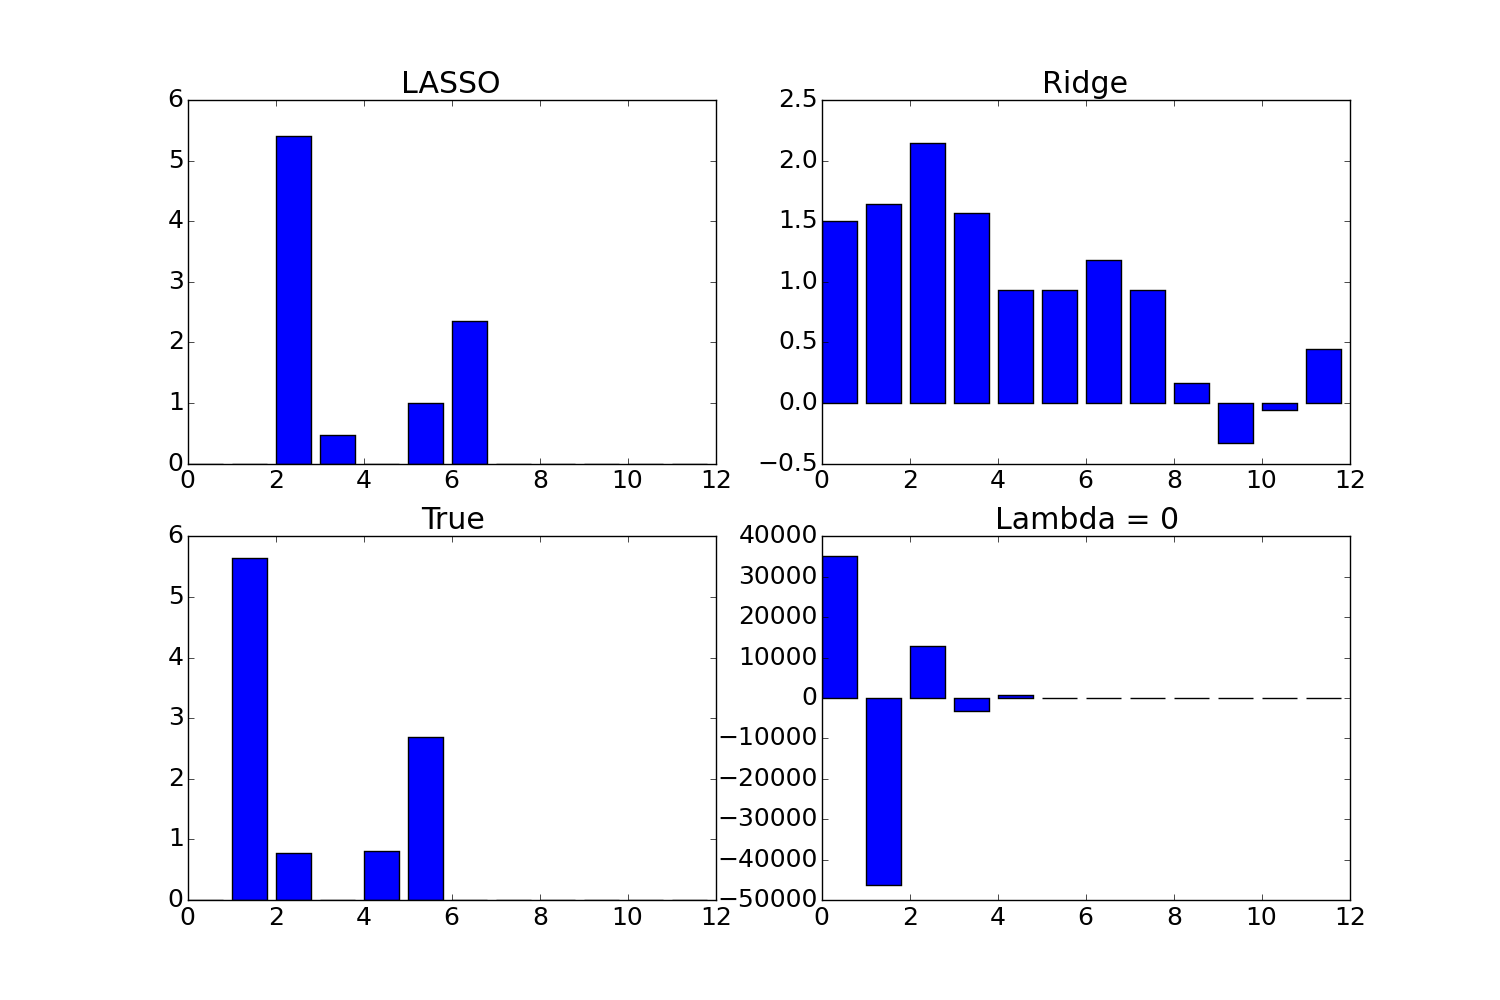
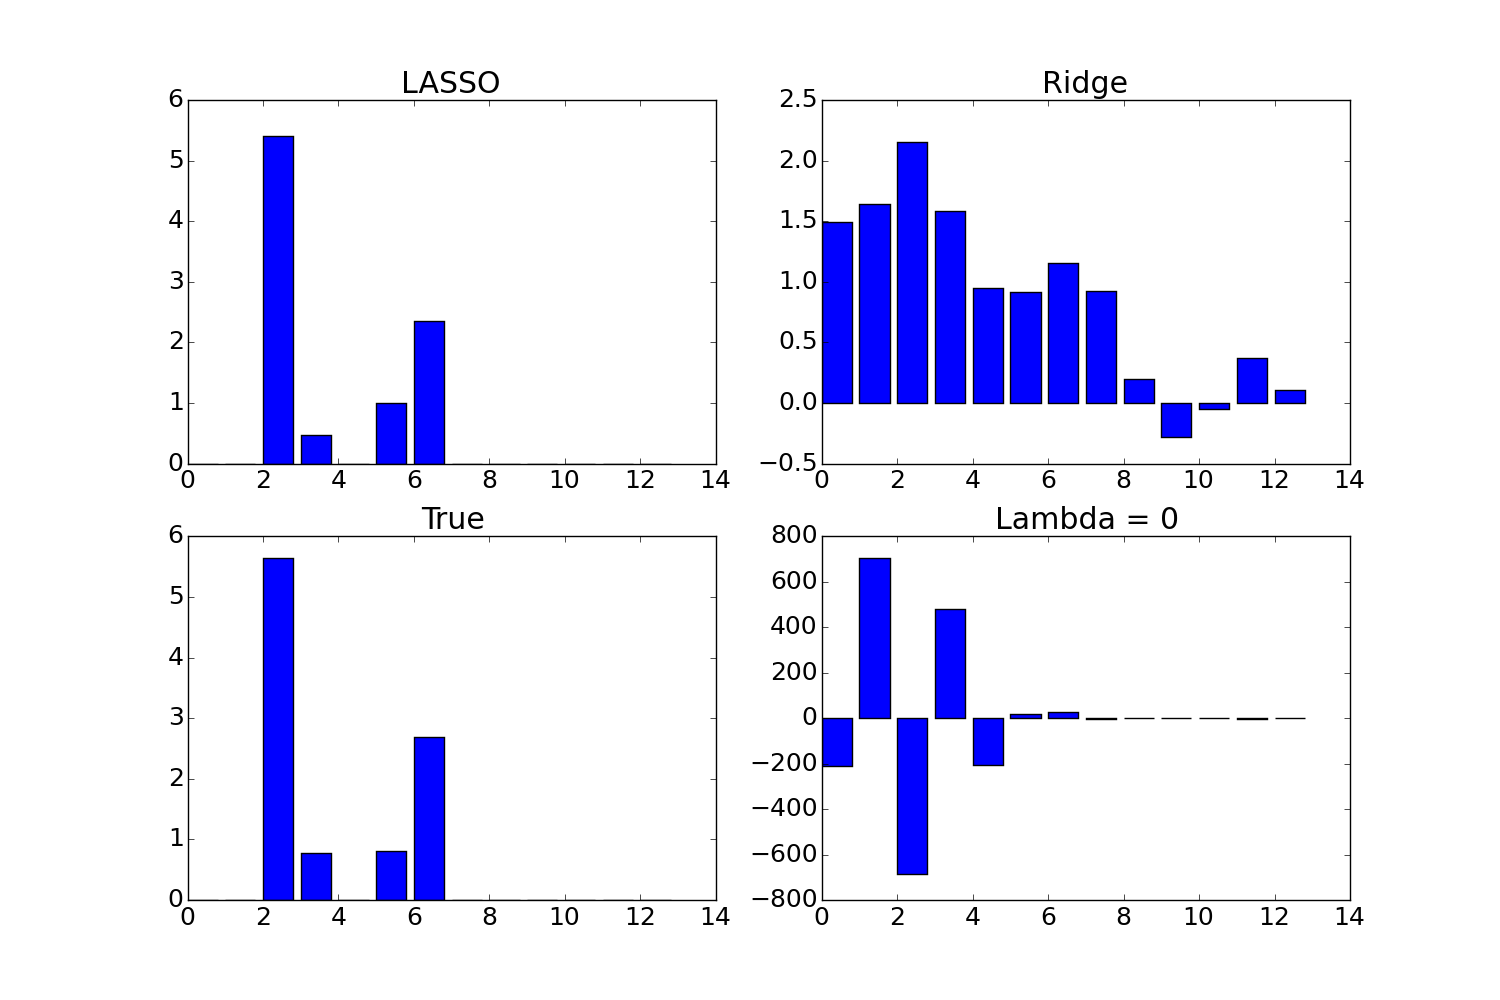
All remaining plots

diff --git a/code/P3/P3.py b/code/P3/P3.py
@@ -1,6 +1,5 @@
 import sys
 sys.path.append('../P4')
-sys.path.append('../P2')
 sys.path.append('../')
 import BaseHandler
 import matplotlib.pyplot as plt
@@ -11,17 +10,80 @@ import lassoData
 import matplotlib
 import loadFittingDataP2
 import regressData
+import matplotlib
 
 if __name__ == '__main__':
+    matplotlib.rcParams.update({'font.size': 18})
+    ## Part 1:
+
+    X, Y = loadFittingDataP2.getData(ifPlotData=False)
+    plt.figure(figsize=(15, 10))
+    plt.subplot()
+    xes= np.arange(0, 1, 0.0001)
+    # Plot for different values of Lambda and M
+
+    #Lambdas=[0.00001,0.5,1]
+    Lambdas = [0.001,0.1,0.2]
+    Ms=[2,4,7]
+    for Lambda in Lambdas:
+        for m in Ms:
+            XBassed = BaseHandler.BuildBasedData(X,m,"p")
+            Inter,W,RSQVal = RegularizedFunctions.Ridge(XBassed, Y, XBassed, Y, Lambda)
+            XesBassed=BaseHandler.BuildBasedData(xes,m,"p")
+            y = Inter+np.dot(np.array(XesBassed), np.array(W))
+            Lable='M= '+str(m)+' Lambda= '+str(Lambda)
+            plt.plot(xes, y, label=Lable)
+    plt.plot(X,Y,'o',label='Data')
+    plt.legend(loc=1, borderaxespad=0.)
+    plt.xlabel('x')
+    plt.ylabel('y(x)')
+    plt.title('Estimation of the function for different Parameters')
+    plt.savefig('Estimation of the function for different Parameters Part1.png')
+
+
     #X, Y = loadFittingDataP2.getData(ifPlotData=False)
     # InterRIDGE, WRIDGE, LambdaRIDGE, MRIDGE = ValidateParams.Validate(XTrain, YTrain, XVal, YVal, Lambdas, Ms,
     #                                                                   RegularizedFunctions.Ridge, "p")
 
-
+    ## Part 2:
+    # Get best lambda and
     Lambdas=np.arange(0.1,10,0.5)
-    Ms=range(0,10)
+    Ms=range(2,10)
     XA,YA=regressData.regressAData()
     XB,YB=regressData.regressBData()
     XVal,YVal=regressData.validateData()
     InterRIDGE, WRIDGE, LambdaRIDGE, MRIDGE = ValidateParams.Validate(XA,YA, XVal, YVal, Lambdas, Ms,
                                                                       RegularizedFunctions.Ridge, "p")
+    XBassedTrain = BaseHandler.BuildBasedData(XA, MRIDGE, "p")
+    XBassedVal = BaseHandler.BuildBasedData(XVal, MRIDGE, "p")
+    XBassedTest = BaseHandler.BuildBasedData(XB, MRIDGE, "p")
+    Inter, W, RSQ_AVAL = RegularizedFunctions.Ridge(XBassedTrain,YA, XBassedVal, YVal,LambdaRIDGE)
+    Inter, W, RSQ_AB = RegularizedFunctions.Ridge(XBassedTrain, YA, XBassedTest, YB, LambdaRIDGE)
+    print "M ",MRIDGE,"LAMBDA " ,Lambda, "SSE", RSQ_AB
+
+    plt.figure(figsize=(15, 10))
+    plt.subplot()
+    xes= np.arange(-3, 2.5, 0.0001)
+    # Plot for different values of Lambda and M
+    Lambdas=[0.00001,0.5]
+    Ms=[2,5,9]
+    for Lambda in Lambdas:
+        for m in Ms:
+            XBassedTrain = BaseHandler.BuildBasedData(XA,m,"p")
+            XBassedVal = BaseHandler.BuildBasedData(XVal,m,"p")
+            XBassedTest = BaseHandler.BuildBasedData(XB,m,"p")
+            Inter,W,RSQVal = RegularizedFunctions.Ridge(XBassedTrain, YA, XBassedVal, YVal, Lambda)
+            Inter, W, RSQTest = RegularizedFunctions.Ridge(XBassedTrain, YA, XBassedTest, YB, Lambda)
+            print "Lambda ",Lambda,"M ",m,"RSQTest ",RSQTest
+            XesBassed=BaseHandler.BuildBasedData(xes,m,"p")
+            y = Inter+np.dot(np.array(XesBassed), np.array(W))
+            Lable='M= '+str(m)+' Lambda= '+str(Lambda)
+            plt.plot(xes, y, label=Lable)
+    plt.plot(XA,YA,'o',label='Set A')
+    plt.plot(XB,YB,'s',label='Set B')
+    plt.plot(XVal,YVal, '^',label='Val Data')
+    plt.legend(loc=4, borderaxespad=0.)
+    plt.xlabel('x')
+    plt.ylabel('y(x)')
+    plt.title('Estimation of the function for different Parameters')
+    plt.savefig('Estimation of the function for different Parameters abval.png')

diff --git a/code/P4/P4.py b/code/P4/P4.py
@@ -4,6 +4,7 @@ import ValidateParams
 import RegularizedFunctions
 import lassoData
 import matplotlib
+import math
 import sys
 sys.path.append('../')
 import BaseHandler
@@ -13,8 +14,7 @@ if __name__ == '__main__':
     XTrain, YTrain = lassoData.lassoTrainData()
     XVal, YVal = lassoData.lassoValData()
     XTest,YTest=lassoData.lassoTestData()
-    InterTrue=0.000000000000000000e+00
-    wTrue=[ 0.000000000000000000e+00,5.646300000000000100e+00,7.785999999999999600e-01,
+    wTrue=[ 0.000000000000000000e+00,0.000000000000000000e+00,5.646300000000000100e+00,7.785999999999999600e-01,
            0.000000000000000000e+00,8.108999999999999500e-01,2.682700000000000100e+00,0.000000000000000000e+00,
             0.000000000000000000e+00,0.000000000000000000e+00,0.000000000000000000e+00, 0.000000000000000000e+00,
             0.000000000000000000e+00 ]
@@ -37,18 +37,21 @@ if __name__ == '__main__':
     xBassed = BaseHandler.BuildBasedData(x, MNoReg, "s")
     yNoReg = InterNoReg + np.dot(np.array(xBassed), np.array(WNoReg))
 
-    xBassed = BaseHandler.BuildBasedData(x, 12, "s")
-    yTrue=InterTrue+ np.dot(np.array(xBassed), np.array(wTrue))
+    xBassed = BaseHandler.BuildBasedData(x, 13, "s")
+    yTrue= np.dot(np.array(xBassed), np.array(wTrue))
     plt.figure(figsize=(15, 10))
     plt.subplot()
     plt.plot(x, yLASSO, label='LASSO' )
     plt.plot(x, yRIDGE, label='Ridge')
     plt.plot(x, yTrue, label='True Function')
     plt.plot(x, yNoReg, label='Lambda = 0')
-    plt.legend( loc=1, borderaxespad=0.)
+    plt.legend( loc=4, borderaxespad=0.)
     plt.plot(XTrain,YTrain,'o',label='Train Data')
     plt.plot(XVal, YVal,'s',label='Val Data')
     plt.plot(XTest,YTest, '^',label='Test Data')
+    plt.xlabel('x')
+    plt.ylabel('y(x)')
+    plt.title('Estimation of the function for the optimal parameters')
     plt.savefig('Estimated Functions.png')
 
     # Plot w as a function of lambda:
@@ -74,14 +77,17 @@ if __name__ == '__main__':
         #print lasso
         plt.plot(Lambdas,lasso,'--')
         plt.plot(Lambdas, ridge, )
+    plt.xlabel('Lambda')
+    plt.ylabel('w')
+    plt.title('W as a function of Lambda')
     plt.savefig('Ws as a function of Lambda.png')
 
     #plot weights
-    InterLASSO, WLASSO, LambdaLASSO, MLASSO = ValidateParams.Validate(XTrain, YTrain, XVal, YVal, Lambdas, [12],
+    InterLASSO, WLASSO, LambdaLASSO, MLASSO = ValidateParams.Validate(XTrain, YTrain, XVal, YVal, Lambdas, [13],
                                                                       RegularizedFunctions.LASSO, "s")
-    InterRIDGE, WRIDGE, LambdaRIDGE, MRIDGE = ValidateParams.Validate(XTrain, YTrain, XVal, YVal, Lambdas, [12],
+    InterRIDGE, WRIDGE, LambdaRIDGE, MRIDGE = ValidateParams.Validate(XTrain, YTrain, XVal, YVal, Lambdas, [13],
                                                                       RegularizedFunctions.Ridge, "s")
-    InterNoReg, WNoReg, LambdaRIDGE, MRIDGE = ValidateParams.Validate(XTrain, YTrain, XVal, YVal, [0], [12],
+    InterNoReg, WNoReg, LambdaRIDGE, MRIDGE = ValidateParams.Validate(XTrain, YTrain, XVal, YVal, [0], [13],
                                                                       RegularizedFunctions.Ridge, "s")
     plt.figure(figsize=(15, 10))
     plt.subplot(221)

diff --git a/code/BaseHandler.py b/code/BaseHandler.py
@@ -28,12 +28,17 @@ def BuildBasedDataCos(x,M):
     return DataSet
 
 def BuildBasedData(x,M,FuncrType):
+    if FuncrType == "n":
+        return x
     if FuncrType == "p":
         DataSet=[]
         for i in range(0,len(x)):
-            DataPoint=[]
+            DataPoint=[1]
             for j in range(0,M):
-                DataPoint.append(x[i][0]**j)
+                if type(x[i]) is numpy.float64:
+                    DataPoint.append(x[i]**j)
+                else:
+                    DataPoint.append(x[i][0]**j)
             DataSet.append(DataPoint)
         return DataSet
     if FuncrType =="c":

diff --git a/code/P4/ValidateParams.py b/code/P4/ValidateParams.py
@@ -14,7 +14,6 @@ def Validate(DataSetXTrain, DataSetYTrain, DataSetXVal, DataSetYVal,Lamdas,Ms,Rg
         for m in Ms:
             XBassedTrain = BaseHandler.BuildBasedData(DataSetXTrain,m,type)
             XBassedVal = BaseHandler.BuildBasedData(DataSetXVal,m,type)
-            print XBassedTrain
             Inter,W,RSQ = RgularizedFunction(XBassedTrain, DataSetYTrain, XBassedVal, DataSetYVal, Lambda)
             # print "Lambda is ",Lambda, "M is", m, "RSQ is" ,RSQ
             if RSQ < BestRSQ:

diff --git a/code/P3/loadFittingDataP2.py b/code/P3/loadFittingDataP2.py
@@ -1,0 +1,19 @@
+import matplotlib.pyplot as plt
+import pylab as pl
+
+def getData(ifPlotData=True):
+    # load the fitting data and (optionally) plot out for examination
+    # return the X and Y as a tuple
+
+    data = pl.loadtxt('curvefittingp2.txt')
+
+    X = data[0,:]
+    Y = data[1,:]
+
+    if ifPlotData:
+        plt.plot(X,Y,'o')
+        plt.xlabel('x')
+        plt.ylabel('y')
+        plt.show()
+
+    return (X,Y)
